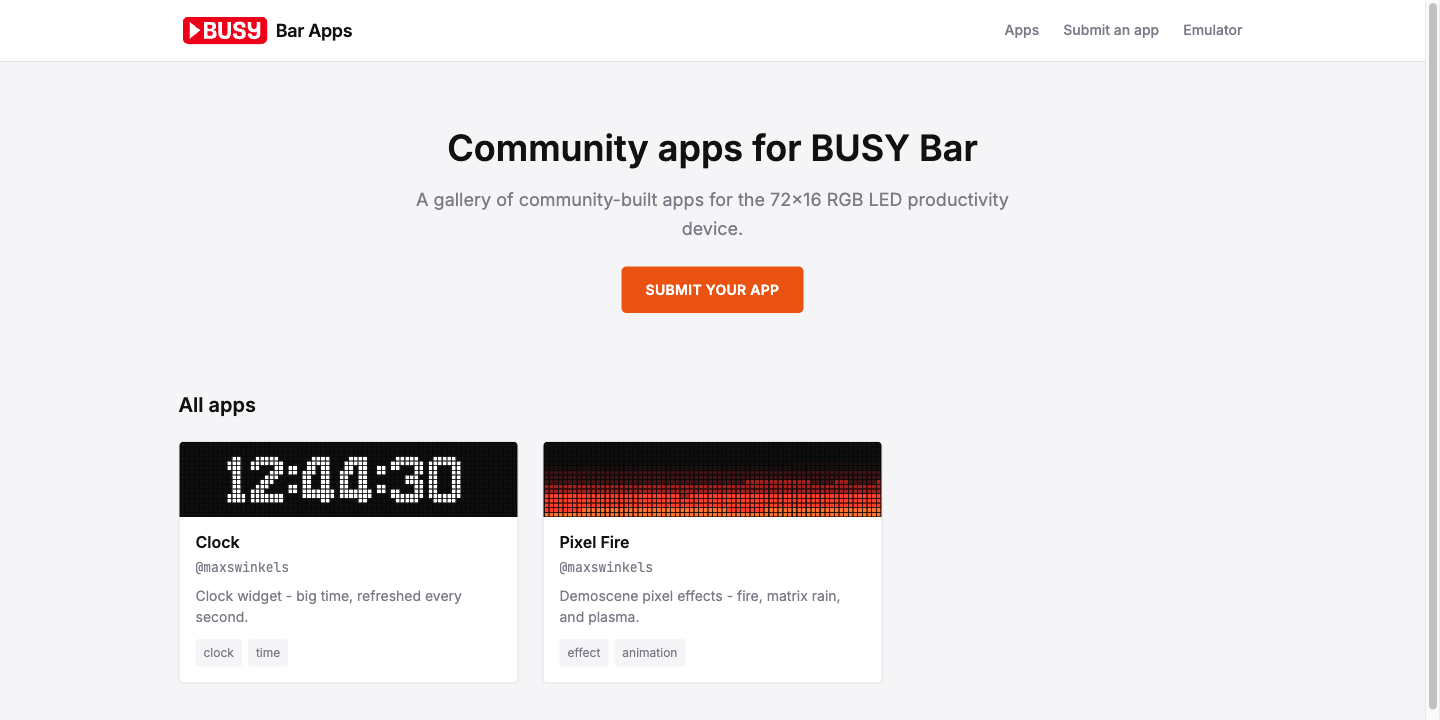
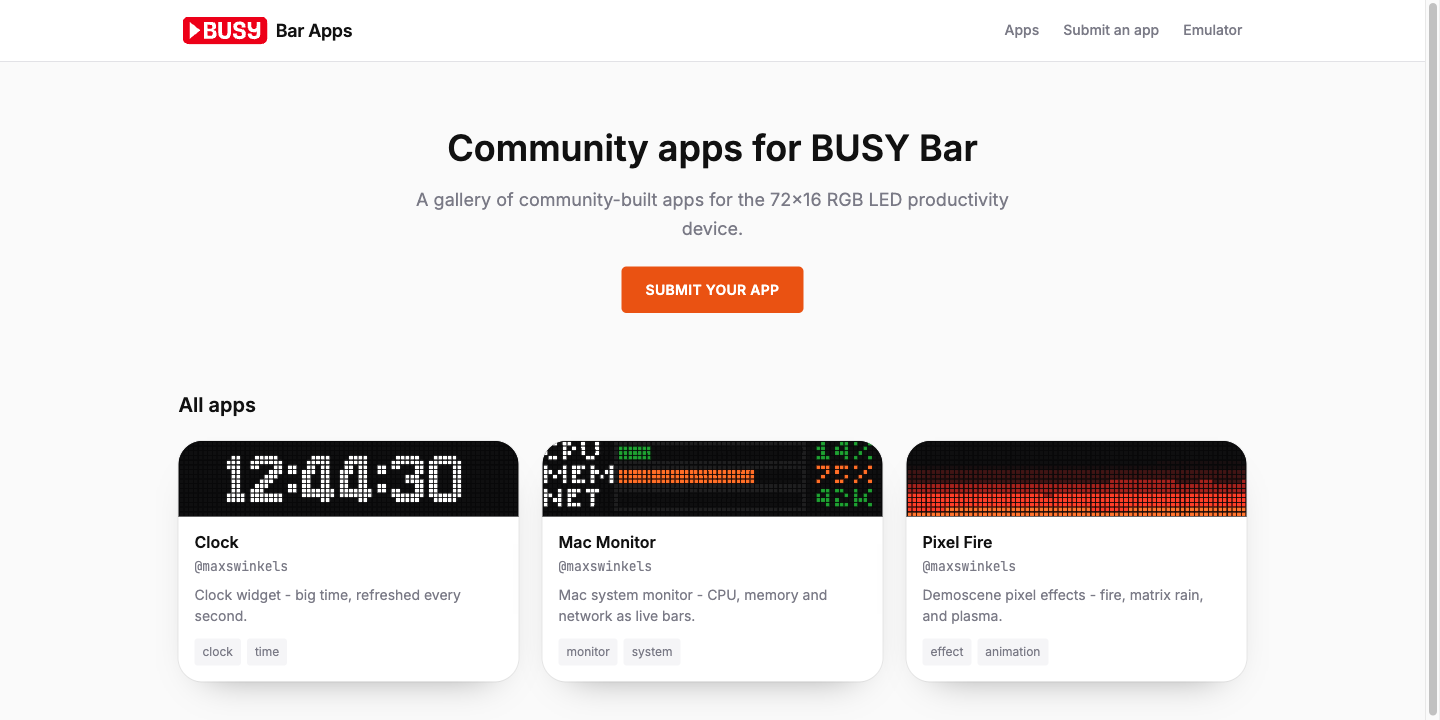
Glass card styling from emulator, #FAFAFA body background

diff --git a/src/styles/global.css b/src/styles/global.css
@@ -3,12 +3,18 @@
 
 :root {
   /* Colors */
-  --color-bg: #f5f5f7;
+  --color-bg: #FAFAFA;
   --color-surface: white;
   --color-text: #111;
   --color-text-secondary: #7a7a86;
   --color-border: #e2e2e6;
   --color-primary: #ea5212;
+
+  /* Glass card (overgenomen uit busybar-emulator .glass) */
+  --ring-in: rgba(255, 255, 255, 0.6);
+  --ring-out: rgba(0, 0, 0, 0.06);
+  --glass-shadow: inset 0 1px 1px 0 var(--ring-in), 0 0 0 1px var(--ring-out),
+    0 18px 40px -28px rgba(0, 0, 0, 0.5);
 
   /* Fonts */
   --font-ui: "Inter Variable", -apple-system, BlinkMacSystemFont, "Segoe UI", sans-serif;
